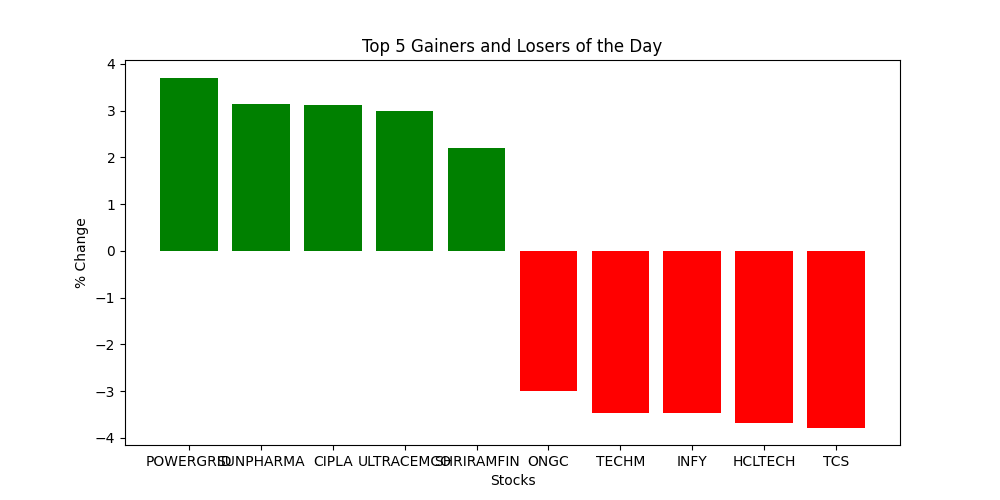
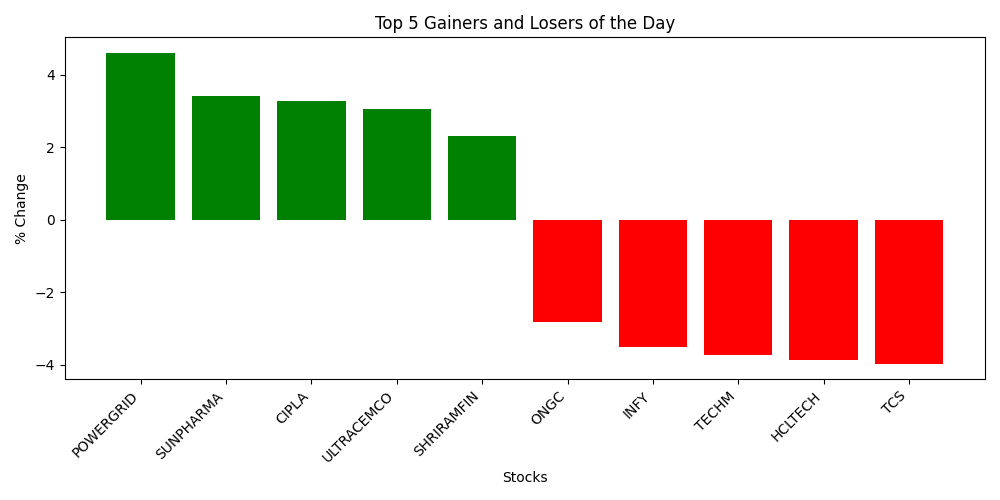
first commit

diff --git a/script.py b/script.py
@@ -41,6 +41,8 @@ def plot_gainers_losers(gainers, losers):
     plt.xlabel("Stocks")
     plt.ylabel("% Change")
     plt.title("Top 5 Gainers and Losers of the Day")
+    plt.xticks(rotation=45, ha='right')  # Rotate labels for better readability
+    plt.tight_layout()  # Adjust layout to prevent clipping
     plt.savefig("output/gainers_losers_chart.png")
     plt.show()
 
